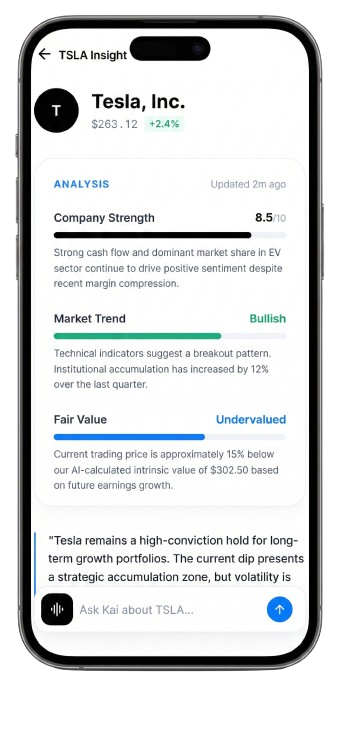
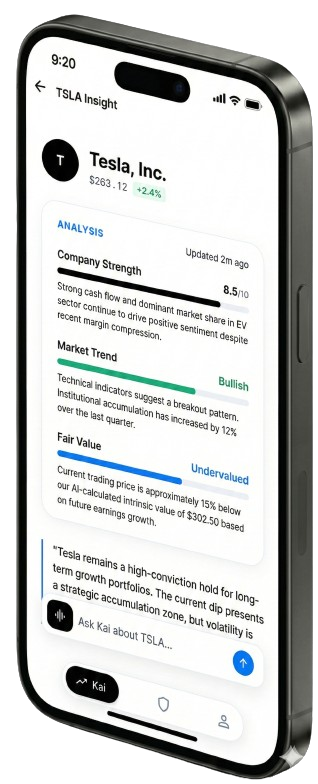
final UI change phase - 0

diff --git a/src/app/clientside/KaiPage.module.css b/src/app/clientside/KaiPage.module.css
@@ -1,4 +1,4 @@
-.page {
+.page {
   background: #ffffff;
   color: #000000;
   min-height: 100vh;
@@ -1990,8 +1990,8 @@
   width: min(100%, 1220px);
   margin: 0 auto;
   display: grid;
-  grid-template-columns: repeat(3, minmax(0, 1fr));
-  gap: clamp(1.2rem, 2.8vw, 2.6rem);
+  grid-template-columns: minmax(0, 1fr);
+  gap: 1rem;
   align-items: end;
 }
 
@@ -2098,7 +2098,9 @@
   }
 
   .triPhoneRow {
-    grid-template-columns: repeat(3, minmax(0, 1fr));
+    width: min(100%, 1260px);
+    grid-template-columns: repeat(2, minmax(0, 1fr));
+    gap: clamp(2.2rem, 8vw, 7rem);
   }
 }
 
@@ -2213,13 +2215,14 @@
 
   .triPhoneRow {
     width: 100%;
-    grid-template-columns: repeat(3, minmax(0, 1fr));
-    gap: 0.6rem;
+    max-width: 1360px;
+    grid-template-columns: repeat(2, minmax(0, 1fr));
+    gap: clamp(3rem, 10vw, 9rem);
   }
 
   .triPhoneItem {
-    width: clamp(86px, 29vw, 148px);
-    height: clamp(190px, 54vw, 320px);
+    width: clamp(180px, 30vw, 360px);
+    height: clamp(360px, 58vw, 760px);
   }
 }
 

diff --git a/src/app/clientside/HushhKai.jsx b/src/app/clientside/HushhKai.jsx
@@ -195,27 +195,28 @@ const investorJourneyStages = [
 ];
 
 const appShowcasePhones = [
- {
+ 
+  // {
+  //   key: "center",
+  //   src: "/Images/kai/center.png",
+  //   alt: "Kai mobile app center screen",
+  //   width: 342,
+  //   height: 734,
+  // },
+  {
+    key: "left",
+    src: "/Images/kai/facing_left.png",
+    alt: "Kai mobile app screen facing left",
+    width: 342,
+    height: 734,
+  },
+  {
     key: "right",
     src: "/Images/kai/facing_right.png",
     alt: "Kai mobile app screen facing right",
     width: 342,
-    height: 730,
-  },
-  {
-    key: "center",
-    src: "/Images/kai/center.png",
-    alt: "Kai mobile app center screen",
-    width: 340,
     height: 734,
   },
-    {
-    key: "left",
-    src: "/Images/kai/facing_left.png",
-    alt: "Kai mobile app screen facing left",
-    width: 320,
-    height: 780,
-  }
 ];
 
 const HushhKai = () => {
